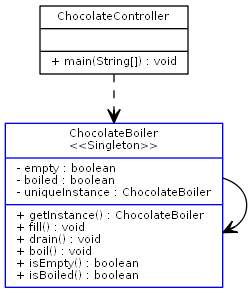
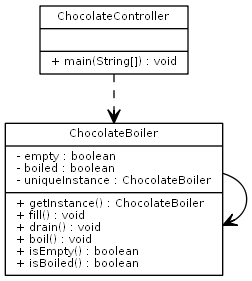
singleton style changed

Changed region(s): [[0.0, 0.1708, 1.0, 0.9964], [0.1389, 0.0, 0.75, 0.1139]]

diff --git a/AsianDomination/test/PatternDetectionTests/AdapterTest.java b/AsianDomination/test/PatternDetectionTests/AdapterTest.java
@@ -3,7 +3,8 @@ package PatternDetectionTests;
 import impl.ProjectModel;
 import input.InputCommand;
 import input.UMLInputCommand;
-import pattern.detection.AdaptorPatternDetector;
+import pattern.decoration.AdapterDecorator;
+import pattern.detection.AdapterPatternDetector;
 import pattern.detection.IPatternDetectionStrategy;
 import pattern.detection.SingletonPatternDetector;
 
@@ -29,7 +30,7 @@ public class AdapterTest {
 	}
 
 	@Test
-	public void simpleSingletonTest() {
+	public void simpleAdapterTest() {
 
 		String[] classes = new String[] { "examples/adapter/Adaptee",
 										  "examples/adapter/Adapter",
@@ -42,13 +43,14 @@ public class AdapterTest {
 		Iterator<ITargetClass> i = model.getTargetClasses().iterator();
 		
 		ITargetClass Adaptee = i.next();
-		assertEquals("red", Adaptee.getColor());
+		
+		assertTrue(Adaptee instanceof AdapterDecorator);
 		
 		ITargetClass Adapter = i.next();
-		assertEquals("red", Adapter.getColor());
+		assertTrue(Adapter instanceof AdapterDecorator);
 		
 		ITargetClass ITarget = i.next();
-		assertEquals("red", ITarget.getColor());
+		assertTrue(ITarget instanceof AdapterDecorator);
 		
 		model.printModel();
 	}
@@ -82,7 +84,7 @@ public class AdapterTest {
 	}
 
 	private IProjectModel buildModel(String[] classes, String path) {
-		List<IPatternDetectionStrategy> detectors = Arrays.asList(new AdaptorPatternDetector());
+		List<IPatternDetectionStrategy> detectors = Arrays.asList(new AdapterPatternDetector());
 		_cmd = new UMLInputCommand(path, path, classes, detectors);
 		IProjectModel model = new ProjectModel(_cmd);
 		model.build();

diff --git a/AsianDomination/test/PatternDetectionTests/SingletonDetectionTest.java b/AsianDomination/test/PatternDetectionTests/SingletonDetectionTest.java
@@ -5,7 +5,8 @@ import input.InputCommand;
 import input.UMLInputCommand;
 import output.AbstractDiagramOutputStream;
 import output.IDiagramOutputStream;
-import pattern.detection.AdaptorPatternDetector;
+import pattern.decoration.SingletonDecorator;
+import pattern.detection.AdapterPatternDetector;
 import pattern.detection.DecoratorPatternDetector;
 import pattern.detection.IPatternDetectionStrategy;
 import pattern.detection.SingletonPatternDetector;
@@ -55,25 +56,25 @@ public class SingletonDetectionTest {
 		Iterator<ITargetClass> i = model.getTargetClasses().iterator();
 		
 		ITargetClass singelton = i.next();
-		assertEquals("blue", singelton.getColor());
+		assertTrue(singelton instanceof SingletonDecorator);
 		
 		ITargetClass badS1 = i.next();
-		assertEquals("black", badS1.getColor());
+		assertFalse(badS1 instanceof SingletonDecorator);
 		
 		ITargetClass badS2 = i.next();
-		assertEquals("black", badS2.getColor());
+		assertFalse(badS2 instanceof SingletonDecorator);
 		
 		//FilterInputStream
-		assertEquals("black", i.next().getColor());
+		assertFalse(i.next() instanceof SingletonDecorator);
 		
 		//Runtime
-		assertEquals("blue", i.next().getColor());
+		assertTrue(i.next() instanceof SingletonDecorator);
 		
 		//Desktop
-		assertEquals("black", i.next().getColor());
+		assertFalse(i.next() instanceof SingletonDecorator);
 		
 		//Calendar
-		assertEquals("black", i.next().getColor());
+		assertFalse(i.next() instanceof SingletonDecorator);
 	}
 
 	@Test

diff --git a/AsianDomination/src/impl/ProjectModel.java b/AsianDomination/src/impl/ProjectModel.java
@@ -28,17 +28,17 @@ public class ProjectModel implements IProjectModel {
 		_targetClasses = new LinkedHashMap<String, ITargetClass>();
 	}
 
-	@Override
-	public void parseModel() {
-		IAddStrategy addStrategy  = _command.getAddStrategy();
-		addStrategy.setProjectModel(this);
-		addStrategy.buildModel(_command.getInputParameters());
-		
-		IDiagramOutputStream digramOutputStream = _command.getOutputStream();
-		digramOutputStream.setProjectModel(this);
-		digramOutputStream.writeOutput();
-		digramOutputStream.generateDiagram(_command.getDiagramOutputPath());
-	}
+//	@Override
+//	public void parseModel() {
+//		IAddStrategy addStrategy  = _command.getAddStrategy();
+//		addStrategy.setProjectModel(this);
+//		addStrategy.buildModel(_command.getInputParameters());
+//		
+//		IDiagramOutputStream digramOutputStream = _command.getOutputStream();
+//		digramOutputStream.setProjectModel(this);
+//		digramOutputStream.writeOutput();
+//		digramOutputStream.generateDiagram(_command.getDiagramOutputPath());
+//	}
 
 	@Override
 	public ITargetClass getTargetClassByName(String className) {
@@ -97,7 +97,7 @@ public class ProjectModel implements IProjectModel {
 	@Override
 	public void printModel() {
 		if(_targetClasses.isEmpty()){
-			this.parseModel();
+			build();
 		} else {
 			IDiagramOutputStream digramOutputStream = _command.getOutputStream();
 			digramOutputStream.setProjectModel(this);

diff --git a/AsianDomination/test/system/TestSimpleUMLSystem.java b/AsianDomination/test/system/TestSimpleUMLSystem.java
@@ -5,7 +5,7 @@ import input.InputCommand;
 import input.UMLInputCommand;
 import output.AbstractDiagramOutputStream;
 import output.IDiagramOutputStream;
-import pattern.detection.AdaptorPatternDetector;
+import pattern.detection.AdapterPatternDetector;
 import pattern.detection.DecoratorPatternDetector;
 import pattern.detection.IPatternDetectionStrategy;
 import pattern.detection.SingletonPatternDetector;
@@ -174,7 +174,7 @@ public class TestSimpleUMLSystem {
 //				"AdapterDummieClasses/ITarget"
 		};
 		
-		List<IPatternDetectionStrategy> detectors = Arrays.asList(new SingletonPatternDetector(), new DecoratorPatternDetector(), new AdaptorPatternDetector());
+		List<IPatternDetectionStrategy> detectors = Arrays.asList(new SingletonPatternDetector(), new DecoratorPatternDetector(), new AdapterPatternDetector());
 		_cmd = new UMLInputCommand("input_output/testProjectSubsystem", "input_output/testProjectSubsystem", classes, detectors);
 		IProjectModel model = new ProjectModel(_cmd);
 		model.parseModel();

diff --git a/AsianDomination/src/utils/ClassStyle.java b/AsianDomination/src/utils/ClassStyle.java
@@ -11,7 +11,7 @@ public class ClassStyle {
 		defaultStyle = "style = solid, bgcolor = black ";
 		styles = new HashMap<String, String>();
 		// Singleton
-		styles.put("Singleton", "style = solid, bgcolor = blue ");
+		styles.put("Singleton", "style = solid, color = blue ");
 
 		// Adapter
 		String adapterStyle = "style = filled, bgcolor = red ";

diff --git a/AsianDomination/src/api/IProjectModel.java b/AsianDomination/src/api/IProjectModel.java
@@ -5,7 +5,6 @@ import java.util.Collection;
 import input.InputCommand;
 
 public interface IProjectModel{
-	public void parseModel();
 	public void build();
 	public void printModel();
 	public Collection<ITargetClass> getTargetClasses();

diff --git a/AsianDomination/src/asm/visitor/DesignParser.java b/AsianDomination/src/asm/visitor/DesignParser.java
@@ -42,7 +42,7 @@ public class DesignParser {
 				continue;
 			
 			IProjectModel model = new ProjectModel(inputCommand);
-			model.parseModel();
+			model.printModel();
 		}
 	}
 }
